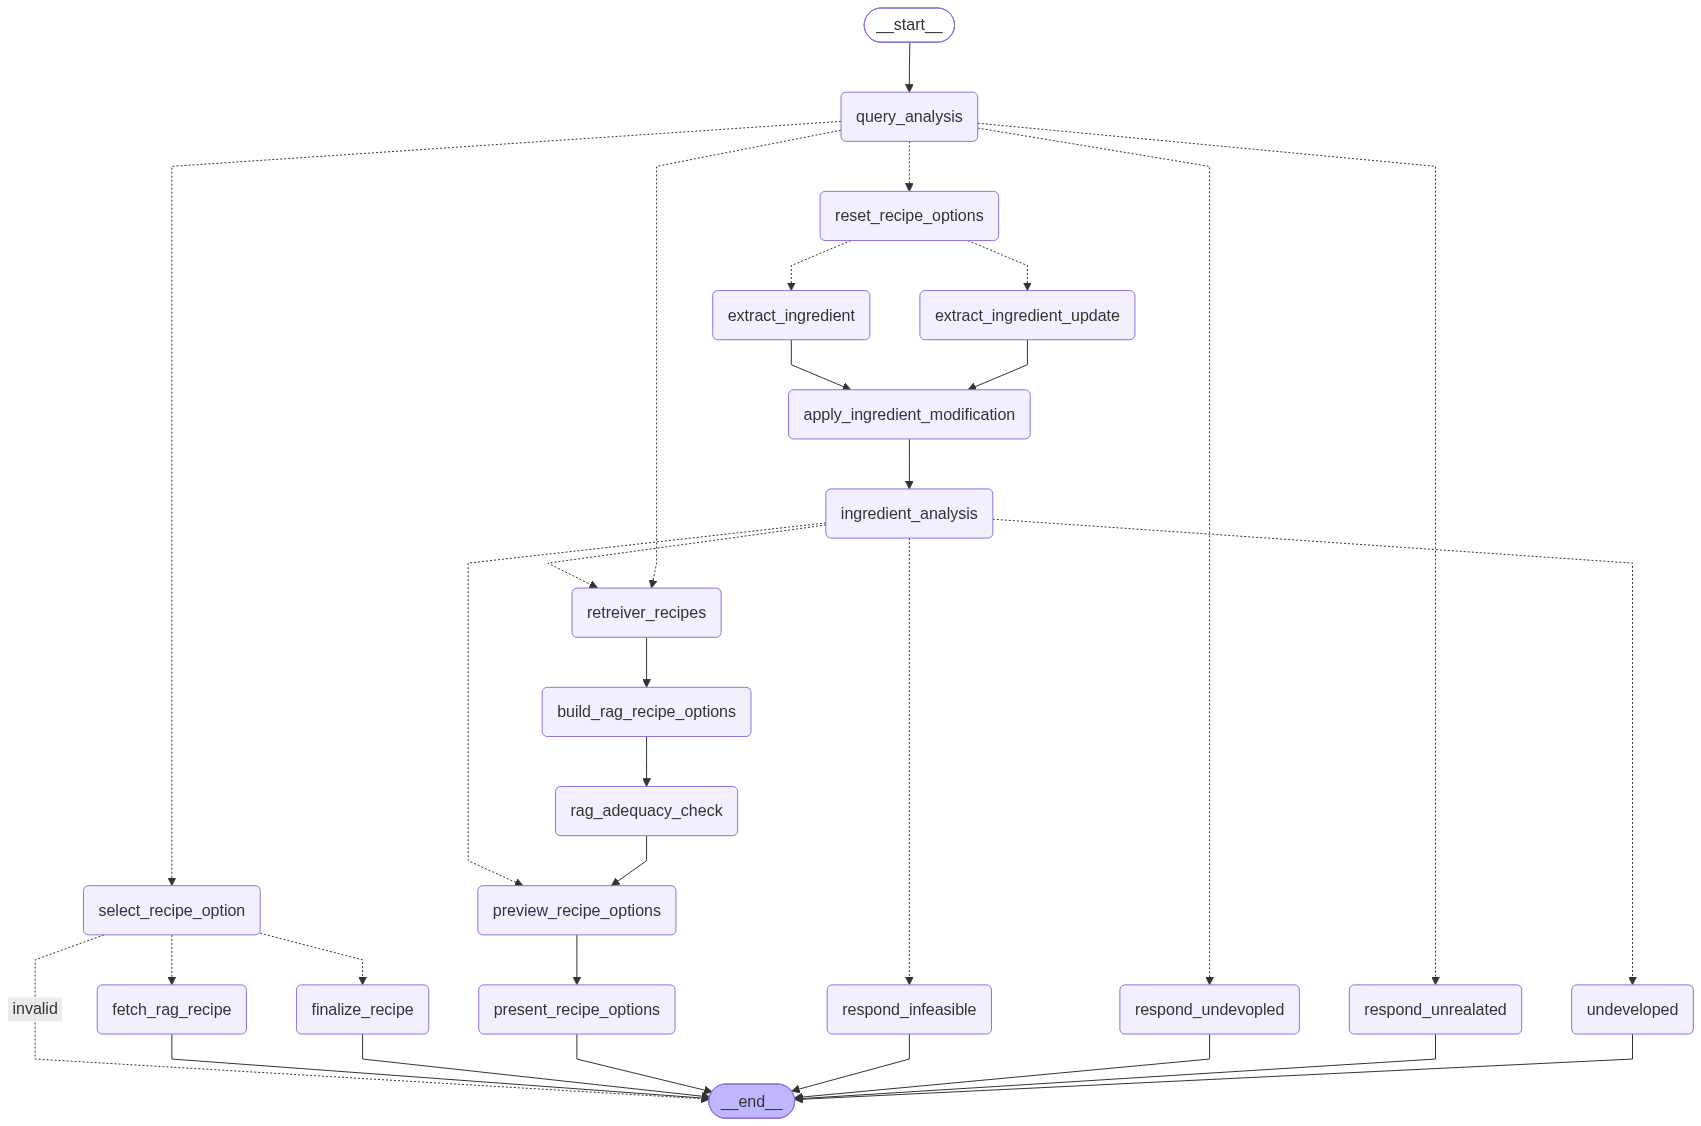
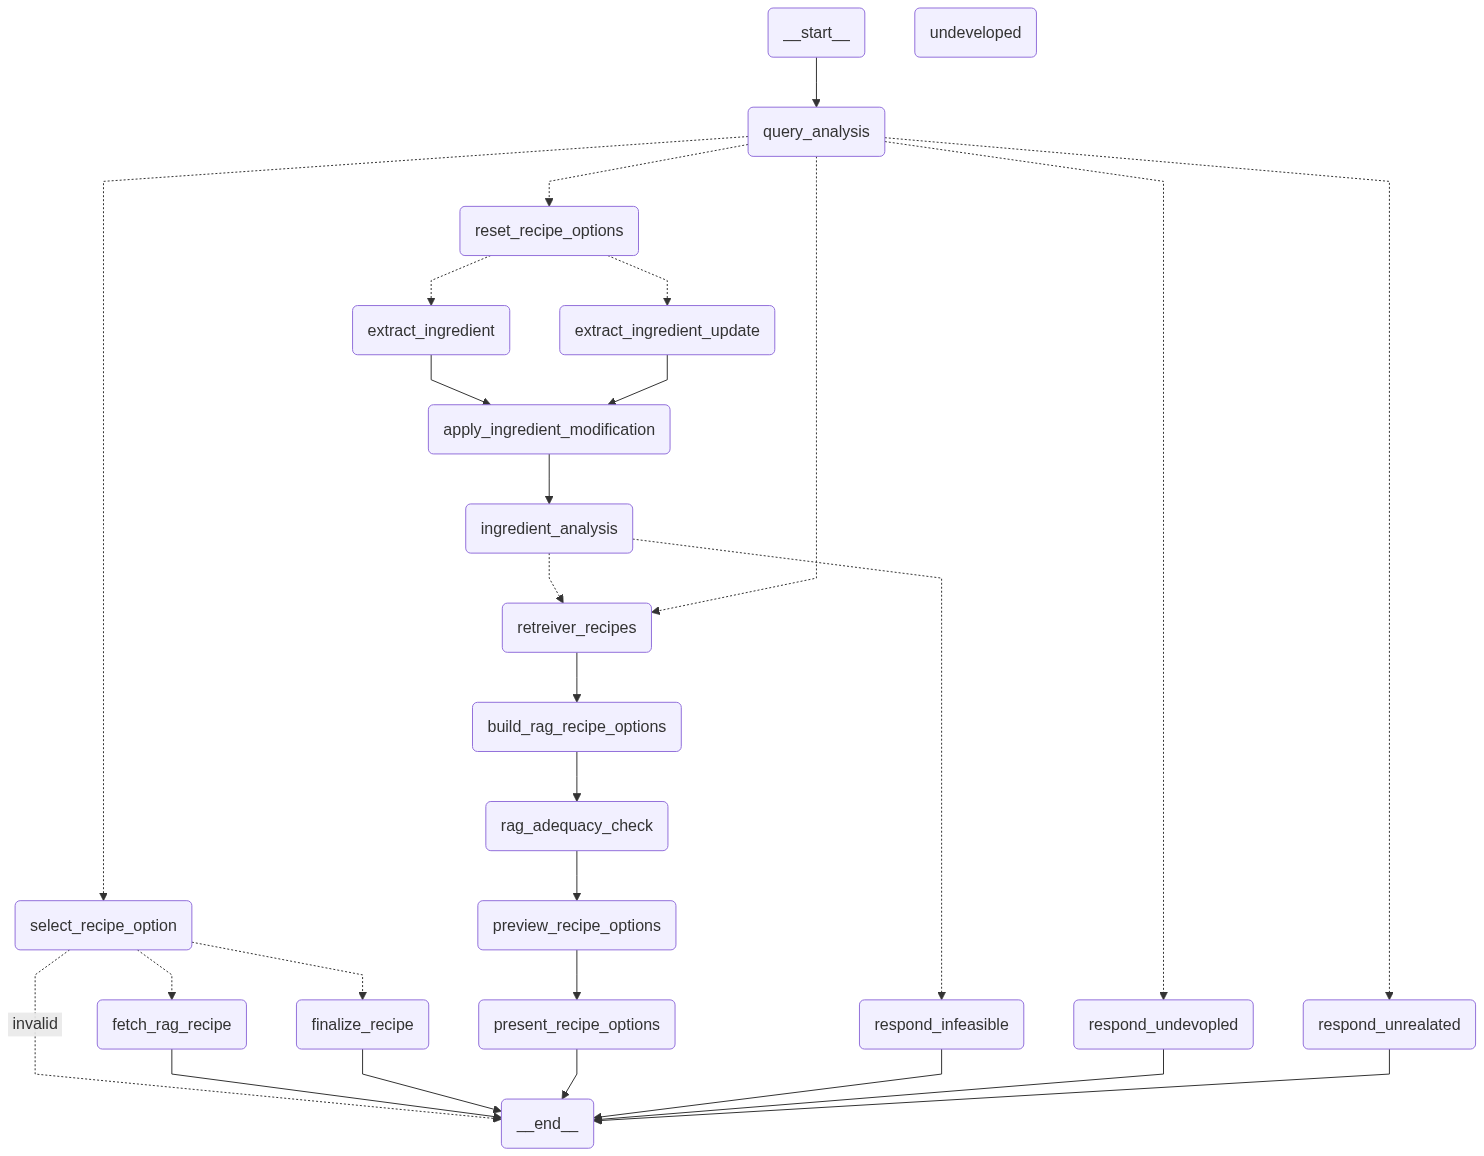
/query를 SSE 스트리밍으로 전환하고 관련 버그 수정
- /query를 StreamingResponse(SSE)로 전환: 노드별 progress 이벤트를 실시간 전송하고
  final 이벤트는 aget_state()로 조회한 전체 상태에서 answer를 꺼내 전달
- ingredient_analysis 이후 preview_recipe_options/retreiver_recipes로 병렬 분기하던
  경로를 제거 (RAG 부족분 계산 전에 LLM을 미리 호출하던 잔재 로직, 중복 실행 원인)
  하고 graph.py의 죽은 path_map 엔트리 정리
- states.py에 누락돼 있던 rag_options 채널 선언 추가 (기존엔 조용히 버려지던 값)
- 체크포인터 allowed_msgpack_modules에 QueryType 추가 (aget_state 호출 시
  역직렬화가 차단되어 500 나던 문제)
- index.html을 fetch+ReadableStream 파싱으로 전환해 progress/final/error 이벤트 처리
- index.html 응답에 Cache-Control: no-cache 추가 (브라우저가 갱신을 못 잡던 문제)

diff --git a/static/index.html b/static/index.html
@@ -181,11 +181,34 @@
       });
       if (!res.ok) throw new Error("서버 오류 (" + res.status + ")");
 
-      const data = await res.json();
-      threadId = data.thread_id;
+      const reader = res.body.getReader();
+      const decoder = new TextDecoder();
+      let buffer = "";
+      let readerDone = false;
 
-      loadingEl.classList.remove("loading");
-      loadingEl.textContent = data.answer;
+      while (!readerDone) {
+        const { done, value } = await reader.read();
+        readerDone = done;
+        buffer += decoder.decode(value || new Uint8Array(), { stream: !done });
+
+        const events = buffer.split("\n\n");
+        buffer = events.pop(); // 마지막 불완전한 조각은 다음 루프로
+
+        for (const line of events) {
+          if (!line.startsWith("data: ")) continue;
+          const payload = JSON.parse(line.slice(6));
+
+          if (payload.type === "progress") {
+            loadingEl.textContent = payload.status;
+          } else if (payload.type === "final") {
+            threadId = payload.thread_id;
+            loadingEl.classList.remove("loading");
+            loadingEl.textContent = payload.answer;
+          } else if (payload.type === "error") {
+            throw new Error(payload.message);
+          }
+        }
+      }
     } catch (err) {
       loadingEl.remove();
       addMessage("오류가 발생했습니다: " + err.message, "error");

diff --git a/main.py b/main.py
@@ -1,18 +1,44 @@
 from contextlib import asynccontextmanager
 from glob import glob
 from pathlib import Path
+import json
 import os
 import uuid
 from fastapi import FastAPI
-from fastapi.responses import FileResponse
+from fastapi.responses import FileResponse, StreamingResponse
 from pydantic import BaseModel
 
-import graph 
+import graph
 from rag.config import get_db_path
 from rag.vectorstore import sync_vdb_from_s3
 
 from dotenv import load_dotenv
 load_dotenv()
+
+## 그래프 진입 노드 (START -> query_analysis 고정 경로)
+ENTRY_NODE = "query_analysis"
+
+## 노드별 SSE progress 문구. 매핑에 없는 노드는 .get()의 기본값("처리하는 중")으로 표시.
+NODE_DISPLAY_NAMES = {
+    "query_analysis": "질문을 이해하는 중",
+    "reset_recipe_options": "재료 변경 사항을 확인하는 중",
+    "extract_ingredient": "재료를 정리하는 중",
+    "extract_ingredient_update": "변경할 재료를 확인하는 중",
+    "apply_ingredient_modification": "재료 목록을 업데이트하는 중",
+    "ingredient_analysis": "요리 가능 여부를 확인하는 중",
+    "retreiver_recipes": "비슷한 레시피를 찾는 중",
+    "build_rag_recipe_options": "찾은 레시피를 정리하는 중",
+    "rag_adequacy_check": "레시피 적합성을 검토하는 중",
+    "preview_recipe_options": "새로운 요리 아이디어를 만드는 중",
+    "present_recipe_options": "선택지를 정리하는 중",
+    "select_recipe_option": "선택하신 레시피를 확인하는 중",
+    "finalize_recipe": "레시피를 완성하는 중",
+    "fetch_rag_recipe": "레시피를 불러오는 중",
+    "respond_infeasible": "결과를 정리하는 중",
+    "respond_undevopled": "지원 가능한 요청인지 확인하는 중",
+    "respond_unrealated": "요청 내용을 확인하는 중",
+    "undeveloped": "응답을 준비하는 중",
+}
 
 @asynccontextmanager
 async def lifespan(app: FastAPI):
@@ -32,7 +58,7 @@ STATIC_DIR = Path(__file__).parent / "static"
 
 @app.get("/")
 async def index():
-    return FileResponse(STATIC_DIR / "index.html")
+    return FileResponse(STATIC_DIR / "index.html", headers={"Cache-Control": "no-cache"})
 
 
 class QueryRequest(BaseModel):
@@ -44,17 +70,50 @@ class QueryResponse(BaseModel):
     thread_id: str
 
 
-@app.post("/query", response_model=QueryResponse)
+@app.post(
+    "/query",
+    responses={
+        200: {
+            "description": "SSE 스트림. progress(여러 번) -> final 또는 error(1회)로 종료.",
+            "content": {"text/event-stream": {}},
+        }
+    },
+)
 async def query(req: QueryRequest):
-    from IPython.display import Image, display
+    async def event_generator():
+        thread_id = req.thread_id or str(uuid.uuid4())
+        config = {"configurable": {"thread_id": thread_id}}
 
-    thread_id = req.thread_id or str(uuid.uuid4())   
-    result = await app.state.rag.ainvoke(
-        {
-            "query": req.question},
-            config={"configurable": {"thread_id": thread_id }},
+        ## 첫 노드(query_analysis) 실행 중에는 astream이 아무 청크도 내보내지 않아
+        ## 화면이 멈춘 것처럼 보이므로, 진입 노드 문구를 먼저 한 번 보내둔다.
+        yield f"data: {json.dumps({'type': 'progress', 'status': NODE_DISPLAY_NAMES[ENTRY_NODE]}, ensure_ascii=False)}\n\n"
+
+        try:
+            async for chunk in app.state.rag.astream(
+                {"query": req.question}, config, stream_mode="updates"
+            ):
+                node_name = list(chunk.keys())[0]
+                display = NODE_DISPLAY_NAMES.get(node_name, "처리하는 중")
+                yield f"data: {json.dumps({'type': 'progress', 'status': display}, ensure_ascii=False)}\n\n"
+
+            ## stream_mode="updates"의 마지막 청크는 마지막 노드가 "반환한" 필드만 담고 있어
+            ## 그래프 구조 변경(병렬 노드 등)에 취약함 -> 체크포인터에 저장된 전체 상태를 다시 조회해서 answer를 꺼낸다.
+            snapshot = await app.state.rag.aget_state(config)
+            answer = (snapshot.values.get("answer") or "결과가 없습니다.") if snapshot else "결과가 없습니다."
+            yield f"data: {json.dumps({'type': 'final', 'answer': answer, 'thread_id': thread_id}, ensure_ascii=False)}\n\n"
+
+        except Exception as e:
+            ## 내부 예외 메시지를 그대로 클라이언트에 노출하지 않는다.
+            print(f"[SSE] 그래프 실행 실패 (thread_id={thread_id}): {e}")
+            error_message = "답변 생성 중 문제가 발생했어요. 다시 시도해 주세요."
+            yield f"data: {json.dumps({'type': 'error', 'message': error_message}, ensure_ascii=False)}\n\n"
+
+    return StreamingResponse(
+        event_generator(),
+        media_type="text/event-stream",
+        headers={
+            "Cache-Control": "no-cache",
+            "Connection": "keep-alive",
+            "X-Accel-Buffering": "no",
+        },
     )
-
-    ## ainvoke는 상태(dict) 전체를 반환하므로 경로별 결과 필드에서 답변을 꺼냄
-    answer = result.get("answer") or result.get("retrieved_recipes") or "결과가 없습니다."
-    return QueryResponse(answer=answer, thread_id=thread_id)

diff --git a/states.py b/states.py
@@ -31,6 +31,8 @@ class OverrallState(MessagesState):
     ingredient_analysis_result: schems.IngredientAnalysisResult
     ## 검색된 레시피 리스트()
     retrieved_recipes: schems.RecipeList
+    ## RAG 적정성 평가(rag_adequacy_check)를 통과한 레시피 옵션 (preview_recipe_options가 LLM 생성 시 제목 중복 방지용으로 사용)
+    rag_options: List[schems.RecipeOption]
     ## RAG 적정성 평가에서 계산한, LLM이 추가로 생성해야 할 개수
     preview_needed_count: int
     ## 레시피 이름과 재료정보 리스트 (None 업데이트 시 초기화되는 커스텀 reducer)

diff --git a/graph.py b/graph.py
@@ -94,7 +94,6 @@ def build():
         "ingredient_analysis",
         analysis.conditional_ingredient_analysis,
         path_map={
-            "preview_recipe_options": "preview_recipe_options",
             "retreiver_recipes": "retreiver_recipes",
             "respond_infeasible": "respond_infeasible",
         },
@@ -133,6 +132,7 @@ def build():
                 ("schems", "Ingredient"),
                 ("schems", "IngredientUpdate"),
                 ("schems", "IngredientAnalysisResult"),
+                ("schems", "QueryType"),
             ]
         )
     )

diff --git a/nodes/analysis.py b/nodes/analysis.py
@@ -112,7 +112,7 @@ def conditional_ingredient_analysis(state: OverrallState):
     print(f"ingredient_analysis_result.feasibility: {feasibility}")
 
     if feasibility in ("directly_cookable", "needs_more_ingredients"):
-        return ["preview_recipe_options", "retreiver_recipes"]
+        return "retreiver_recipes"
 
     elif feasibility == "not_cookable":
         return "respond_infeasible"
